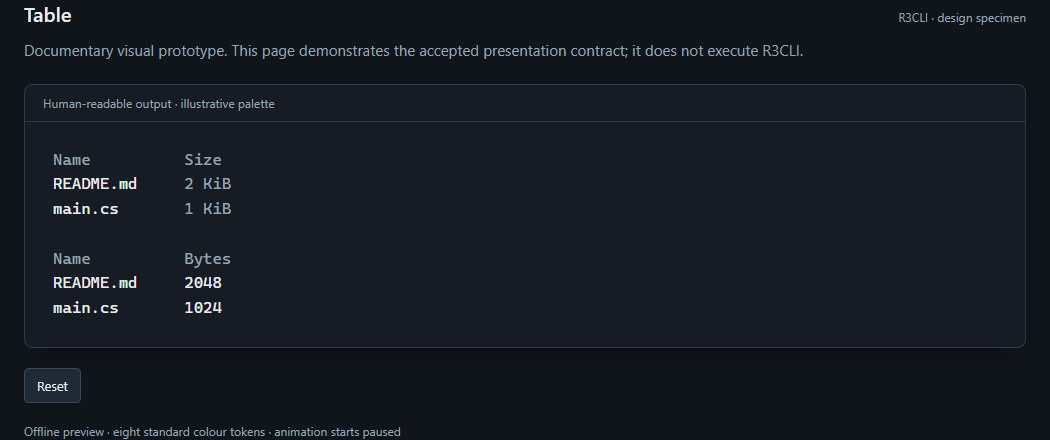
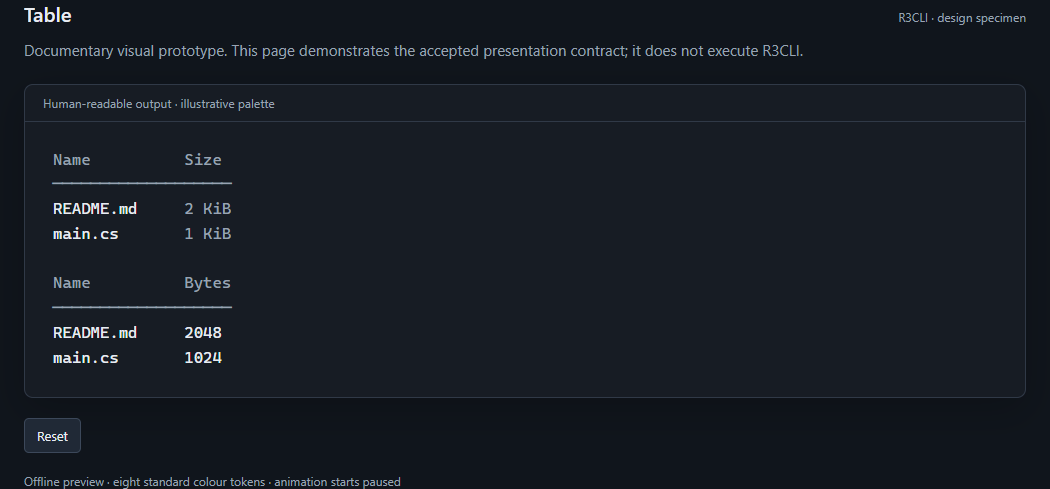
docs: separate table headers with the default rule

diff --git a/docs/assets/previews/structure.html b/docs/assets/previews/structure.html
@@ -1,3 +1,3 @@
 <!doctype html>
 <html lang="en"><head><meta charset="utf-8"><meta name="viewport" content="width=device-width,initial-scale=1"><title>Presentation structure · R3CLI preview</title><link rel="stylesheet" href="preview.css"><script defer src="preview.js"></script></head><body data-slug="structure"><main><header><h1>Presentation structure</h1><span class="badge">R3CLI · design specimen</span></header><p>Documentary visual prototype. This page demonstrates the accepted presentation contract; it does not execute R3CLI.</p><div class="terminal"><div class="terminal-bar">Human-readable output · illustrative palette</div><div class="screen" role="region" aria-label="Terminal preview"><div class="block"><div class="line rule" data-pattern="="><span class="muted">============================================</span></div><div class="line"><span class="title">R3CLI presentation</span></div><div class="line rule" data-pattern="="><span class="muted">============================================</span></div></div><section class="block"><div class="line"><span class="title">Introduction</span></div><div class="line rule" data-pattern="─"><span class="muted">────────────────────────────────────────────</span></div><div class="indent"><div class="line">Primary text. <span class="muted">Additional details.</span></div><div class="line"><span class="title">Project report</span></div><div class="line"><span class="accent">modpack project use demo</span></div><div class="line">Project: <span class="accent">demo</span><span class="muted">  selected</span></div><div class="blank"></div><div class="line rule" data-pattern="=-"><span class="muted">=-=-=-=-=-=-=-=-=-=-=-=-=-=-=-=-=-=-=-=-=-=-</span></div></div></section><section class="block"><div class="line"><span class="title">Messages</span></div><div class="line rule" data-pattern="─"><span class="muted">────────────────────────────────────────────</span></div><div class="indent"><div class="line"><span class="accent">•</span> Using the selected project.</div><div class="line"><span class="success">✓</span> Configuration saved.</div><div class="line"><span class="warning">!</span> Optional metadata is missing.</div><div class="line"><span class="failure">×</span> The operation could not complete.</div><div class="line"><span class="accent">→</span> Checking package metadata.</div></div></section><section class="block"><div class="line"><span class="title">Project</span></div><div class="line rule" data-pattern="═"><span class="muted">════════════════════════════════════════════</span></div><div class="indent"><div class="line"><span class="muted">Project: </span>demo</div><section class="block"><div class="line"><span class="title">Content</span></div><div class="line rule" data-pattern="─"><span class="muted">────────────────────────────────────────────</span></div><div class="indent"><div class="line"><span class="muted">Files: </span>12</div><section class="block"><div class="line"><span class="title">Validation</span></div><div class="line rule" data-pattern="-"><span class="muted">--------------------------------------------</span></div><div class="indent"><div class="line"><span class="success">✓</span> Checks passed.</div></div></section></div></section></div></section><div class="block"><pre class="literal">Name    Status
-demo    ready</pre></div><section class="block" id="aligned-fields"><div class="line"><span class="title">Aligned fields</span></div><div class="line rule" data-pattern="─"><span class="muted">────────────────────────────────────────────</span></div><div class="indent"><div class="line leader" data-leader data-width="12" data-pattern="."><span class="leader-prefix muted">Name</span><span class="leader-fill muted"></span><span class="leader-value">demo</span></div><div class="line leader" data-leader data-width="12" data-pattern="."><span class="leader-prefix muted">Files</span><span class="leader-fill muted"></span><span class="leader-value">12</span></div><div class="line leader" data-leader data-width="12" data-pattern="_-\_"><span class="leader-prefix muted"><span class="text">Note</span></span><span class="leader-fill muted"></span><span class="leader-value">Local</span></div></div></section><div class="block"><div class="line"><span class="muted">Name    Files</span></div><div class="line">demo    12</div><div class="line">test    3</div></div><div class="block"><div class="line">Packages<span class="muted">  12</span></div><div class="line"><span class="muted">├── </span>Client<span class="muted">  8</span></div><div class="line"><span class="muted">└── </span>Shared<span class="muted">  4</span></div></div><div class="block"><div class="line"><span class="warning">!</span> Optional metadata is missing.</div><div class="line"><span class="muted">  [Project.OptionalMetadata]</span></div><div class="line"><span class="muted">  Details: The project can still be inspected.</span></div><div class="line"><span class="muted">  Try: </span><span class="accent">modpack content check</span></div></div><section class="block"><div class="line"><span class="title">Usage</span></div><div class="line rule" data-pattern="─"><span class="muted">────────────────────────────────────────────</span></div><div class="indent"><div class="line"><span class="accent">modpack project use</span> <span class="muted">&lt;</span>name<span class="muted">&gt;</span></div></div></section><section class="block"><div class="line"><span class="title">Options</span></div><div class="line rule" data-pattern="─"><span class="muted">────────────────────────────────────────────</span></div><div class="indent"><div class="line"><span class="accent">--no-human</span>  Return structured output.</div><div class="line"><span class="accent">-h, --help</span>  Show help or selected sections.</div></div></section><section class="block"><div class="line"><span class="title">Examples</span></div><div class="line rule" data-pattern="─"><span class="muted">────────────────────────────────────────────</span></div><div class="indent"><div class="line"><span class="accent">modpack project use demo</span></div></div></section><div id="view-region"><div class="line"><span class="accent frame">⠋</span> Reading metadata</div></div><div class="line"><span class="text">━━━━━━</span><span class="muted">━━━━━━━━━━━━━━</span></div><div class="line"><span class="accent frame">⠋</span></div><section class="block"><div class="line"><span class="title">Updating project</span></div><div class="line rule" data-pattern="─"><span class="muted">────────────────────────────────────────────</span></div><div class="indent"><div id="stage-first"><div class="line"><span class="accent frame">⠋</span> Resolve dependencies</div></div><div class="line"><span class="muted">○ Download files</span></div><div class="line"><span class="muted">○ Validate project</span></div></div></section></div></div><div class="controls"><button id="reset" type="button">Reset</button><button id="play" type="button" aria-pressed="false">Play / pause animation</button><button id="update" type="button">Update content</button><button id="remove" type="button">Remove view</button></div><footer>Offline preview · eight standard colour tokens · animation starts paused</footer></main></body></html>
+demo    ready</pre></div><section class="block" id="aligned-fields"><div class="line"><span class="title">Aligned fields</span></div><div class="line rule" data-pattern="─"><span class="muted">────────────────────────────────────────────</span></div><div class="indent"><div class="line leader" data-leader data-width="12" data-pattern="."><span class="leader-prefix muted">Name</span><span class="leader-fill muted"></span><span class="leader-value">demo</span></div><div class="line leader" data-leader data-width="12" data-pattern="."><span class="leader-prefix muted">Files</span><span class="leader-fill muted"></span><span class="leader-value">12</span></div><div class="line leader" data-leader data-width="12" data-pattern="_-\_"><span class="leader-prefix muted"><span class="text">Note</span></span><span class="leader-fill muted"></span><span class="leader-value">Local</span></div></div></section><div class="block" data-table style="width:13ch;max-width:100%"><div class="line"><span class="muted">Name    Files</span></div><div class="line rule" data-table-header-rule data-pattern="─"><span class="muted">─────────────</span></div><div class="line">demo    12</div><div class="line">test    3</div></div><div class="block"><div class="line">Packages<span class="muted">  12</span></div><div class="line"><span class="muted">├── </span>Client<span class="muted">  8</span></div><div class="line"><span class="muted">└── </span>Shared<span class="muted">  4</span></div></div><div class="block"><div class="line"><span class="warning">!</span> Optional metadata is missing.</div><div class="line"><span class="muted">  [Project.OptionalMetadata]</span></div><div class="line"><span class="muted">  Details: The project can still be inspected.</span></div><div class="line"><span class="muted">  Try: </span><span class="accent">modpack content check</span></div></div><section class="block"><div class="line"><span class="title">Usage</span></div><div class="line rule" data-pattern="─"><span class="muted">────────────────────────────────────────────</span></div><div class="indent"><div class="line"><span class="accent">modpack project use</span> <span class="muted">&lt;</span>name<span class="muted">&gt;</span></div></div></section><section class="block"><div class="line"><span class="title">Options</span></div><div class="line rule" data-pattern="─"><span class="muted">────────────────────────────────────────────</span></div><div class="indent"><div class="line"><span class="accent">--no-human</span>  Return structured output.</div><div class="line"><span class="accent">-h, --help</span>  Show help or selected sections.</div></div></section><section class="block"><div class="line"><span class="title">Examples</span></div><div class="line rule" data-pattern="─"><span class="muted">────────────────────────────────────────────</span></div><div class="indent"><div class="line"><span class="accent">modpack project use demo</span></div></div></section><div id="view-region"><div class="line"><span class="accent frame">⠋</span> Reading metadata</div></div><div class="line"><span class="text">━━━━━━</span><span class="muted">━━━━━━━━━━━━━━</span></div><div class="line"><span class="accent frame">⠋</span></div><section class="block"><div class="line"><span class="title">Updating project</span></div><div class="line rule" data-pattern="─"><span class="muted">────────────────────────────────────────────</span></div><div class="indent"><div id="stage-first"><div class="line"><span class="accent frame">⠋</span> Resolve dependencies</div></div><div class="line"><span class="muted">○ Download files</span></div><div class="line"><span class="muted">○ Validate project</span></div></div></section></div></div><div class="controls"><button id="reset" type="button">Reset</button><button id="play" type="button" aria-pressed="false">Play / pause animation</button><button id="update" type="button">Update content</button><button id="remove" type="button">Remove view</button></div><footer>Offline preview · eight standard colour tokens · animation starts paused</footer></main></body></html>

diff --git a/docs/assets/previews/table.html b/docs/assets/previews/table.html
@@ -1,2 +1,2 @@
 <!doctype html>
-<html lang="en"><head><meta charset="utf-8"><meta name="viewport" content="width=device-width,initial-scale=1"><title>Table · R3CLI preview</title><link rel="stylesheet" href="preview.css"><script defer src="preview.js"></script></head><body data-slug="table"><main><header><h1>Table</h1><span class="badge">R3CLI · design specimen</span></header><p>Documentary visual prototype. This page demonstrates the accepted presentation contract; it does not execute R3CLI.</p><div class="terminal"><div class="terminal-bar">Human-readable output · illustrative palette</div><div class="screen" role="region" aria-label="Terminal preview"><div class="block"><div class="line"><span class="muted">Name          Size</span></div><div class="line">README.md     <span class="muted">2 KiB</span></div><div class="line">main.cs       <span class="muted">1 KiB</span></div></div><div class="block"><div class="line"><span class="muted">Name          Bytes</span></div><div class="line">README.md     2048</div><div class="line">main.cs       1024</div></div></div></div><div class="controls"><button id="reset" type="button">Reset</button></div><footer>Offline preview · eight standard colour tokens · animation starts paused</footer></main></body></html>
+<html lang="en"><head><meta charset="utf-8"><meta name="viewport" content="width=device-width,initial-scale=1"><title>Table · R3CLI preview</title><link rel="stylesheet" href="preview.css"><script defer src="preview.js"></script></head><body data-slug="table"><main><header><h1>Table</h1><span class="badge">R3CLI · design specimen</span></header><p>Documentary visual prototype. This page demonstrates the accepted presentation contract; it does not execute R3CLI.</p><div class="terminal"><div class="terminal-bar">Human-readable output · illustrative palette</div><div class="screen" role="region" aria-label="Terminal preview"><div class="block" data-table style="width:19ch;max-width:100%"><div class="line"><span class="muted">Name          Size</span></div><div class="line rule" data-table-header-rule data-pattern="─"><span class="muted">───────────────────</span></div><div class="line">README.md     <span class="muted">2 KiB</span></div><div class="line">main.cs       <span class="muted">1 KiB</span></div></div><div class="block" data-table style="width:19ch;max-width:100%"><div class="line"><span class="muted">Name          Bytes</span></div><div class="line rule" data-table-header-rule data-pattern="─"><span class="muted">───────────────────</span></div><div class="line">README.md     2048</div><div class="line">main.cs       1024</div></div></div></div><div class="controls"><button id="reset" type="button">Reset</button></div><footer>Offline preview · eight standard colour tokens · animation starts paused</footer></main></body></html>

diff --git a/docs/presentation/components/table.md b/docs/presentation/components/table.md
@@ -64,13 +64,14 @@ public sealed class Table : IComponent
 
 ## Composition
 
-Rows are data and columns are selectors, not separate lists of cells. Header is mandatory. A column selects exactly one field or index, established by its constructor. The string-column constructor maps each mandatory header to its zero-based positional column, using the same access and validation as an explicit Column(header, index). Rows are the first parameter in both overloads. Internal lookup, validation and cell-layout helper methods are implementation choices, not fixed API contracts; sealed types require no protected API.
+Rows are data and columns are selectors, not separate lists of cells. Table composes the mandatory header row, a default [[docs/presentation/components/separator|Separator]] and the data rows; callers do not supply this separator. Header is mandatory. A column selects exactly one field or index, established by its constructor. The string-column constructor maps each mandatory header to its zero-based positional column, using the same access and validation as an explicit Column(header, index). Rows are the first parameter in both overloads. Internal lookup, validation and cell-layout helper methods are implementation choices, not fixed API contracts; sealed types require no protected API.
 
 ```mermaid
 classDiagram
     IComponent <|.. Table
     Table o-- "0..*" Row : rows
     Table o-- "0..*" Column : columns
+    Table ..> Separator : header rule
     Column ..> Row : reads
     Column ..> IInlineContent : presents
 ```
@@ -88,10 +89,13 @@ The preview shows the semantic arrangement. Browser rendering is illustrative; i
 | Part | Token |
 |---|---|
 | Default headers | `subtext.foreground` |
+| Header separator | `subtext.foreground` |
 | Default values | `text.foreground` |
 | Custom cells | `Tokens of their inline components` |
 
 ### Layout
+
+By default, render exactly one ordinary Separator immediately below the complete header row, using the continuous Unicode pattern ─ (U+2500), or - in ASCII mode. It spans the full laid-out table width, including the gaps between columns, rather than adding a separate rule per column. There is no blank line between headers, rule and data. Wrapped headers finish before the rule. Both constructors share this presentation; no new constructor argument or colour token is needed. An empty table with visible columns still shows its headers and rule; an empty visible projection shows neither. In the labelled vertical-record fallback there is no shared header row, so no header rule is emitted.
 
 Cells can wrap or contain permitted explicit breaks; row height is the tallest cell. Column minimum is min(natural width, 8 cells). If minimums plus gaps do not fit, render labelled vertical records, preserving labels and order. Request one lower gap after the complete table.
 
@@ -117,7 +121,7 @@ Output.Show(detailed, compact);
 
 ## Structured data
 
-Rows retain supported original values and field names independently of headers and presentation. The numeric value 2048L stays numeric when its cell reads 2 KiB. Displayed columns do not implicitly project away unselected fields. Adapters accept native rows/records and build these descriptions internally. See [[docs/integration/adapter-boundaries|Adapter boundaries]].
+The header rule is human presentation only; it adds no row, field or value to Nushell or PowerShell structured output. Rows retain supported original values and field names independently of headers and presentation. The numeric value 2048L stays numeric when its cell reads 2 KiB. Displayed columns do not implicitly project away unselected fields. Adapters accept native rows/records and build these descriptions internally. See [[docs/integration/adapter-boundaries|Adapter boundaries]].
 
 ## Customization
 

diff --git a/docs/structure.md b/docs/structure.md
@@ -130,6 +130,6 @@ public sealed record Category(string Name, int Count, Category[] Children);
 
 The code includes literal examples of Info, Success, Warning, Failure and static Activity rather than recolouring arbitrary strings. Title has its own colour. Separator patterns and tree branches use Subtext's token. The LiteralBlock is compact and separated from following content. The nested Section branch demonstrates `═`, `─`, then `-`.
 
-The compact Table constructor maps header strings to positional Columns without changing Row or hiding unselected data. TabLeader targets a logical line-prefix width in terminal cells. Explicit Field leaders replace the default colon and gap; the same inline value can align a Line. The underscores/backslash pattern is literal Symbol content, not an escape language interpreted by R3CLI.
+Table places a default continuous Separator below the headers across the full table width, without changing structured data. The compact Table constructor maps header strings to positional Columns without changing Row or hiding unselected data. TabLeader targets a logical line-prefix width in terminal cells. Explicit Field leaders replace the default colon and gap; the same inline value can align a Line. The underscores/backslash pattern is literal Symbol content, not an escape language interpreted by R3CLI.
 
 Help is generated from the supplied command, not hand-constructed. Its content has no Banner. View updates replace the metadata region without producing new automatic blank lines per frame. The static capture freezes the initial state; the browser fixture can display the explicit progress replacement.

diff --git a/docs/class-diagram.md b/docs/class-diagram.md
@@ -66,6 +66,7 @@ classDiagram
     IComponent <|.. Table
     Table o-- Row
     Table o-- Column
+    Table ..> Separator : header rule
     Column ..> Row : selects value
     Column ..> IInlineContent : presentation
     IComponent <|.. Tree
